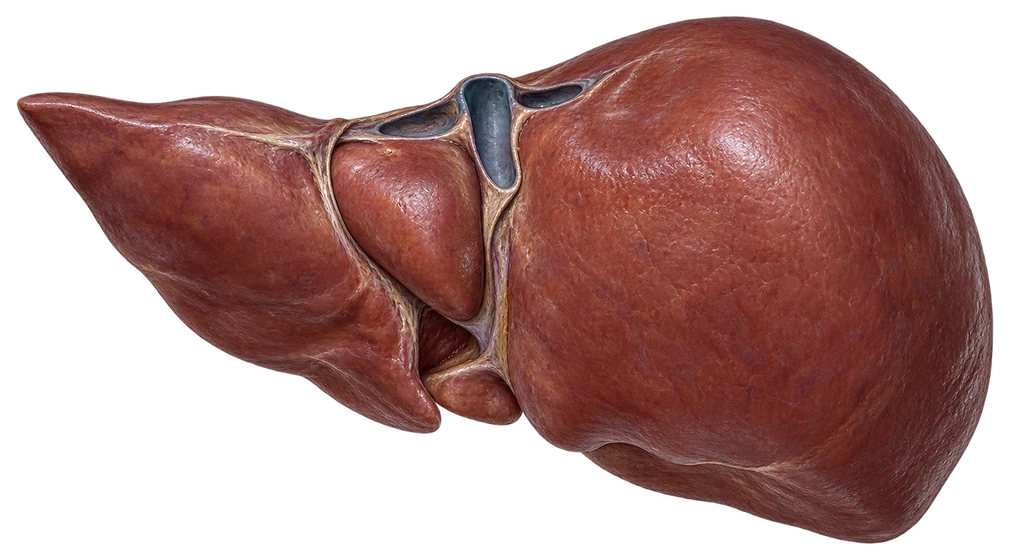
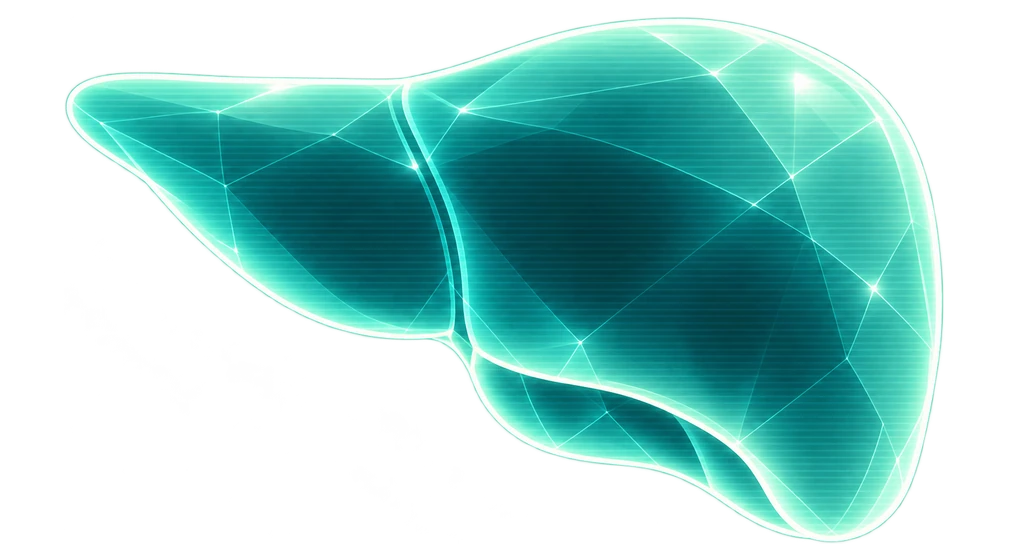
feat: 허리 장기 엑스레이를 네온 필름 홀로그램 그림체로 교체
사실적 해부 그림이 징그럽다는 피드백으로 시안 C를 골랐다. 27장을 민트 홀로그램·코랄 경고·
빛 조각 잔해로 다시 그리고, 파열 방울을 코랄·민트 빛 조각으로 바꿨다.

Claude-Session: https://claude.ai/code/session_011dGEt8sqwiFgtcbctATjbq

diff --git a/src/back/xray.js b/src/back/xray.js
@@ -13,11 +13,10 @@ import {createClinicXray} from 'virtual:clinic-xray';
 const clamp=v=>Math.max(0,Math.min(1,v));
 const smooth=(a,b,v)=>{const t=clamp((v-a)/(b-a));return t*t*(3-2*t);};
 
-// Posterior medical illustrations; the GLB supplies anatomical landmarks only.
+// Posterior neon-film holograms; the GLB supplies anatomical landmarks only.
 // In the prone overhead shot world +x is the patient's and viewer's right.
 const INFLATE=.4,HIT_STOP=.05;
-// Muted fruit-jelly colours, independent of the replaceable organ paintings.
-const JELLY={lungL:0xd998ba,lungR:0xd998ba,heart:0xd990ac,liver:0xc797ce,stomach:0xe6b578,spleen:0xb7a0d5,kidneyL:0xca9ebd,kidneyR:0xca9ebd,bowel:0xe8bd91};
+const SHARD_COLORS=[0xff795b,0x83ffe0,0xffb695];
 const ORGAN_ART=['lungL','lungR','heart','liver','stomach','spleen','kidneyL','kidneyR','bowel'];
 const ART_HEIGHT={lungL:.29,lungR:.29,heart:.135,liver:.215,stomach:.18,spleen:.15,kidneyL:.18,kidneyR:.18,bowel:.27};
 async function loadOrganArt(){
@@ -72,7 +71,7 @@ function filmSprite(type){
   const canvas=document.createElement('canvas');canvas.width=canvas.height=128;const g=canvas.getContext('2d');
   g.strokeStyle='#ff7a59';g.fillStyle='#ff7a59';g.lineWidth=type==='ring'?5:4;
   if(type==='ring'||type==='shock'){
-    if(type==='shock'){g.strokeStyle='#f4d7b9';g.lineWidth=12;}
+    if(type==='shock'){g.strokeStyle='#e0fff5';g.lineWidth=12;}
     g.beginPath();g.arc(64,64,type==='shock'?52:56,0,Math.PI*2);g.stroke();
   }
   else if(type==='crack'){
@@ -95,16 +94,16 @@ function createOrgans(source,scene,art){
   const l5=source.scene.getObjectByName('ref_L5').getWorldPosition(new THREE.Vector3());
   const scale=.6/(t1.y-l5.y);
   const entries=[];let hitIds=[],lastAmount=0,lastZoom=0,burstIds=[],swells={},moods={};
-  // One draw call per organ, no particle textures, lights or per-frame allocation.
-  // A rounded bead with a pale cap reads as jelly rather than torn tissue.
-  const beadGeometry=new THREE.SphereGeometry(1,10,6),beadColors=[];
-  const beadPositions=beadGeometry.attributes.position;
-  for(let i=0;i<beadPositions.count;i++){
-    const light=.72+.28*Math.max(0,beadPositions.getY(i)*.55+beadPositions.getZ(i)*.8);
-    beadColors.push(light,light,light);
+  // Faceted light fragments and needle sparks share one instanced draw per organ.
+  // All colours/attributes exist before prewarming: no first-burst shader variant.
+  const shardGeometry=new THREE.OctahedronGeometry(1,0),shardColors=[];
+  const shardPositions=shardGeometry.attributes.position;
+  for(let i=0;i<shardPositions.count;i++){
+    const light=[1,.52,.8,.66][Math.floor(i/3)%4];
+    shardColors.push(light,light,light);
   }
-  beadGeometry.setAttribute('color',new THREE.Float32BufferAttribute(beadColors,3));
-  const beadPose=new THREE.Object3D();
+  shardGeometry.setAttribute('color',new THREE.Float32BufferAttribute(shardColors,3));
+  const shardPose=new THREE.Object3D();
   const spineOnTop=new THREE.Mesh(new THREE.PlaneGeometry(1e-4,1e-4),new THREE.MeshBasicMaterial({transparent:true,opacity:0,depthWrite:false,depthTest:false}));
   spineOnTop.renderOrder=998.99;spineOnTop.frustumCulled=false;spineOnTop.onBeforeRender=r=>r.clearDepth();group.add(spineOnTop);
   for(const id of ORGAN_ART){
@@ -121,13 +120,17 @@ function createOrgans(source,scene,art){
     const sprite=new THREE.Sprite(new THREE.SpriteMaterial({map,transparent:true,depthWrite:false,depthTest:false,toneMapped:false}));
     sprite.name=id+'_painted';sprite.frustumCulled=false;group.add(sprite);
     const ring=filmSprite('shock'),echo=filmSprite('shock'),flash=filmSprite('flash');
-    const beads=new THREE.InstancedMesh(beadGeometry,new THREE.MeshBasicMaterial({color:JELLY[id],vertexColors:true,transparent:true,depthWrite:false,depthTest:false,toneMapped:false}),18);
-    beads.instanceMatrix.setUsage(THREE.DynamicDrawUsage);beads.frustumCulled=false;beads.visible=false;
-    beads.name=id+'_jelly';beads.renderOrder=998.84;beads.position.copy(centre);
-    const tag=organTag(id);group.add(ring,echo,flash,beads,tag.sprite,tag.line);
+    const shards=new THREE.InstancedMesh(shardGeometry,new THREE.MeshBasicMaterial({vertexColors:true,blending:THREE.AdditiveBlending,transparent:true,depthWrite:false,depthTest:false,toneMapped:false}),18);
+    for(let i=0;i<shards.count;i++)shards.setColorAt(i,new THREE.Color(SHARD_COLORS[i%SHARD_COLORS.length]).convertSRGBToLinear());
+    shards.instanceColor.needsUpdate=true;
+    shards.instanceMatrix.setUsage(THREE.DynamicDrawUsage);shards.frustumCulled=false;shards.visible=false;
+    shards.name=id+'_light_shards';shards.renderOrder=998.84;shards.position.copy(centre);
+    ring.material.color.setHex(0xff9478);echo.material.color.setHex(0x83ffe0);
+    ring.material.blending=echo.material.blending=THREE.AdditiveBlending;
+    const tag=organTag(id);group.add(ring,echo,flash,shards,tag.sprite,tag.line);
     flash.renderOrder=998.8;ring.renderOrder=echo.renderOrder=998.82;
     tag.sprite.renderOrder=998.9;tag.line.renderOrder=998.88;
-    entries.push({id,sprite,tag,side,centre,size,ring,echo,flash,beads,hit:false,burst:false});
+    entries.push({id,sprite,tag,side,centre,size,ring,echo,flash,shards,hit:false,burst:false});
   }
   // Both markers are back-only; the shared clinic engine stays unchanged.
   const marker=filmSprite('ring'),spineCrack=filmSprite('crack'),spineFlash=filmSprite('flash');
@@ -154,8 +157,8 @@ function createOrgans(source,scene,art){
       const mood=e.hit&&release>0?'dead':e.hit&&age>=0?'strain':'calm';
       if(e.hit){moods[e.id]=mood;swells[e.id]=+swell.toFixed(3);}
       e.sprite.material.map=art[e.id][e.hit?mood:'calm'];
-      e.sprite.material.color.set(e.hit?0xffffff:0x47977f);
-      e.sprite.material.opacity=amount*(e.hit?1:.105);
+      e.sprite.material.color.set(e.hit?0xffffff:0xa7f6df);
+      e.sprite.material.opacity=amount*(e.hit?1:.16);
       e.sprite.material.rotation=jitter+(e.burst?.16*recoil:0);
       e.sprite.renderOrder=e.hit?998.45+ORGAN_ART.indexOf(e.id)*.009:998.08;
       e.sprite.position.copy(e.centre);
@@ -171,20 +174,21 @@ function createOrgans(source,scene,art){
       e.echo.visible=fx&&echoAge>=0&&echoAge<.44;e.echo.position.copy(e.centre);
       e.echo.scale.setScalar(diameter*(.65+1.25*smooth(0,.44,echoAge)));
       e.echo.material.opacity=amount*.5*(1-smooth(0,.44,echoAge));
-      e.beads.visible=fx&&release>0&&release<.85;
-      if(e.beads.visible){
-        for(let i=0;i<e.beads.count;i++){
+      e.shards.visible=fx&&release>0&&release<.85;
+      if(e.shards.visible){
+        for(let i=0;i<e.shards.count;i++){
           // Even angular coverage with deterministic variation; leave game RNG alone.
           const angle=i*2.399963,dx=Math.cos(angle),dy=Math.sin(angle),speed=diameter*(.8+(i%5)*.15);
           const travel=speed*release,radius=diameter*(.025+(i%3)*.009)*(1-smooth(.45,.85,release));
-          beadPose.position.set(dx*(diameter*.18+travel),dy*(diameter*.18+travel)-diameter*.9*release*release,.002+(i%3)*.001);
-          beadPose.rotation.set(0,0,angle);
+          shardPose.position.set(dx*(diameter*.18+travel),dy*(diameter*.18+travel)-diameter*.9*release*release,.002+(i%3)*.001);
+          const spark=i%3===0;
+          shardPose.rotation.set(spark?0:release*(i%2?5:-4),spark?0:i*.7+release*3,angle);
           const stretch=1+1.6*Math.exp(-release*8);
-          beadPose.scale.set(radius*stretch,radius/stretch,radius*.6);beadPose.updateMatrix();
-          e.beads.setMatrixAt(i,beadPose.matrix);
+          shardPose.scale.set(radius*stretch*(spark?2.2:1),radius/stretch*(spark?.15:.7),radius*(spark?.12:.5));shardPose.updateMatrix();
+          e.shards.setMatrixAt(i,shardPose.matrix);
         }
-        e.beads.instanceMatrix.needsUpdate=true;
-        e.beads.material.opacity=amount*(1-smooth(.5,.85,release));
+        e.shards.instanceMatrix.needsUpdate=true;
+        e.shards.material.opacity=amount*(1-smooth(.5,.85,release));
       }
       e.tag.setHot(e.burst);e.tag.sprite.visible=e.tag.line.visible=group.visible&&e.hit;
       e.tag.sprite.material.opacity=amount;e.tag.line.material.opacity=amount*(e.burst?.65:.25);
@@ -218,7 +222,7 @@ function createOrgans(source,scene,art){
     const unproject=(x,y,z)=>new THREE.Vector3(x/width*2-1,1-y/height*2,z).unproject(camera);
     const pixelAt=p=>2*(-p.clone().applyMatrix4(camera.matrixWorldInverse).z)*Math.tan(THREE.MathUtils.degToRad(camera.fov/2))/height;
     if(!group.visible)return;
-    for(const e of entries)if(e.beads.visible)e.beads.quaternion.copy(camera.quaternion);
+    for(const e of entries)if(e.shards.visible)e.shards.quaternion.copy(camera.quaternion);
     const bounds={left:width,right:0},occupied=[];
     const shown=new Set(entries.filter(e=>e.hit));
     for(const e of entries)if(!shown.has(e))e.tag.sprite.visible=e.tag.line.visible=false;

diff --git a/public/models/back/organ-art/README.md b/public/models/back/organ-art/README.md
@@ -1,64 +1,71 @@
-# Posterior anatomical organ art
+# Posterior neon-film organ holograms
 
 27 transparent WebP textures: nine organs × `calm` / `strain` / `dead`.
-Repainted with the built-in ImageGen tool on 2026-10-18. No downloaded art.
-The former character faces, cream shells, mint interiors and painted fragments
-are replaced by volumetric, realistic medical illustrations in natural, slightly
-cooled and desaturated tissue colours for the dark teal X-ray film (`#0f231f`).
+Repainted with the built-in ImageGen tool on 2026-10-18 from the user's selected
+**C · neon film hologram** concept (`scratchpad/codex16/concept-C.png`).
+No downloaded art. No faces, text, blood, flesh, stickers or stars.
 
 ## View and anatomy
 
-All images show the **posterior aspect**, superior end at the top. In the prone
-overhead shot, patient right is screen right / world +x. The textures themselves
-are drawn in that orientation; the runtime does not mirror the pictures.
+All sprites retain the **posterior view**, superior end at the top. In the prone
+overhead shot, patient right is image right / world +x. The runtime does not
+mirror the textures.
 
-- `lungL`, `lungR`: posterior pleura, oblique fissures, lobes, fine vessels and a
-  partly visible medial hilum; the left lung's medial edge faces image right.
-- `heart`: posterior atrial base, pulmonary vein entries, coronary sinus and
-  posterior interventricular vessels, apex toward image left.
-- `liver`: large right lobe on image right, smaller left lobe on image left,
-  posterior caval groove and caudate region.
-- `stomach`: external posterior serosa, fundus/greater curvature on image left,
-  lesser curvature and pyloric outlet on image right; no internal cutaway.
-- `spleen`: rounded plum capsule, notched superior margin and medial hilar vessels.
-- `kidneyL`, `kidneyR`: convex posterior capsules, medial concavities, short hilar
-  vessels and ureters; no renal cross-sections.
-- `bowel`: colon frame with haustra/taeniae and irregular small-bowel coils,
-  ascending colon on image right and descending colon on image left.
+- `lungL`: medial indentation faces image right; `lungR`: image left.
+- `heart`: simplified atrial/vessel forms, apex toward image left.
+- `liver`: large right lobe on image right; small tapered left lobe on image left.
+- `stomach`: fundus/greater curvature on image left, pyloric outlet on image right.
+- `spleen`: left-side capsule with a medial indentation toward image right.
+- `kidneyL`, `kidneyR`: external bean-shaped capsules, medial concavities and
+  short ureters toward the midline; no cross-sections.
+- `bowel`: segmented colon surrounding small-bowel coils; ascending colon on
+  image right and descending colon on image left.
 
 ## States and generation
 
-Each healthy organ was generated separately. Two image edits used that organ's
-healthy PNG as the reference, locking its posterior view, anatomy, composition,
-lighting, silhouette and placement:
+Each calm organ was generated separately using concept C as the style reference.
+Two separate image edits then used that organ's calm PNG and concept C, preserving
+its orientation, silhouette, composition and placement:
 
-- `calm`: healthy tissue, subtle moist highlights and real surface detail.
-- `strain`: congested darker/duskier tissue, fuller tense surfaces and slightly
-  stronger gloss. The game supplies the large animated inflation.
-- `dead`: one localized irregular laceration with parted tissue edges and a small
-  dark-red blood trace confined to the tear. The organ stays in one piece: no
-  splatter, blood pools, intestinal contents or flying tissue.
+- `calm`: translucent dark teal/mint volume, luminous mint-white rim, sparse
+  triangular facets and fine horizontal film scanlines.
+- `strain`: intact, slightly fuller coral warning hologram with amber-white rim
+  glow. The existing runtime still supplies the large animated inflation.
+- `dead`: separated mint crystal remnants with wide transparent gaps and a trace
+  of coral along broken edges, plus small light fragments. No intact organ behind
+  the chunks and no tissue wound.
 
-Shared generation prompt: “Scientific-educational transparent medical game
-texture, realistic three-dimensional anatomy-atlas illustration, posterior view,
-entire organ centered, natural slightly cooled/desaturated organ colours, soft
-neutral lighting, fine anatomical surface detail, genuine transparent background.
-No face, eyes, mouth, sweat, text, symbols, sticker outline, glow or cartoon
-elements.” Organ-specific anatomy is listed above. The state edits preserve the
-reference and change only the condition described above.
+Shared calm prompt: “One standalone calm game organ sprite, posterior view,
+patient right = image right. Neon film hologram: smooth translucent dark teal
+volume, luminous mint/ivory silhouette rim, sparse triangular facets and delicate
+horizontal scanlines. Entire organ centered, superior end at top, true transparent
+background and clear padding. No flesh colours, body, other organs, platform,
+text, labels, faces, blood, stars or stickers.” Organ-specific anatomy is listed
+above. Strain edits replace mint with coral warning light and preserve the intact
+shape. Dead edits remove about 45% of the volume into transparent gaps, leaving
+5–7 separated angular mint chunks and a few small fragments within the original
+framing. The full prompt set and generated PNG sources are kept in
+`scratchpad/codex18/` alongside the contact sheet.
 
-Generated RGBA silhouettes are cropped by alpha, registered to the healthy organ's
-footprint and placed on the same padded canvas for all three states. Final WebP
-canvases are 560 px high, encoded at quality 90 with alpha preserved. Canvas and
-visible footprint dimensions match within each triplet, preventing size jumps
-when maps switch. Cropping/resampling/encoding do not repaint the generated art.
+Alpha cropping, registration, resampling and WebP encoding preserve the generated
+art rather than repainting it procedurally. Final canvases retain their original
+dimensions (560 px high, 346–1010 px wide), WebP quality 90 and transparent alpha.
+Each triplet uses the same centered footprint to avoid a size jump at map swaps.
 
-## Runtime
+## Runtime and performance
 
-`src/back/xray.js` uses the existing anatomical GLB landmarks with explicit
-posterior side signs and matching side labels. All 27 maps are uploaded during
-loading with `renderer.initTexture`, before the shot. Non-hit organs remain faded.
-The existing `ORGAN_BEAT` controls strain → inflation → staggered rupture, followed
-by the dead map, a brief cream flash, one coral ring and the existing screen shake.
-The former word sprite, coral star and shell fragments are removed. The shared
-spine X-ray engine, fracture marker, timing, camera flow and hit logic are retained.
+`src/back/xray.js` retains the GLB landmarks, explicit posterior side signs and
+existing labels. Non-hit organs use a faded pale mint tint. Rupture emits 18
+instanced, faceted coral/mint light shards and needle sparks per organ with
+additive blending; no particle textures or extra lights are used. The two
+shockwaves are coral and mint.
+
+All 27 maps are uploaded with `renderer.initTexture` during loading. Existing
+effect/tag textures are also initialized before the shot. Instance colours and
+geometry attributes are populated before the existing loading-time render warmup
+in `src/back/scene.js`, so no new shader variant or texture is introduced by a
+burst. A browser performance probe is still required to measure this on-device.
+
+`ORGAN_BEAT`, inflation, hit stop, flash, both shockwave timings, particle lifetime,
+shake, camera, fracture marker and hit logic are unchanged. The shared
+`src/scene/xray.js` is untouched.
